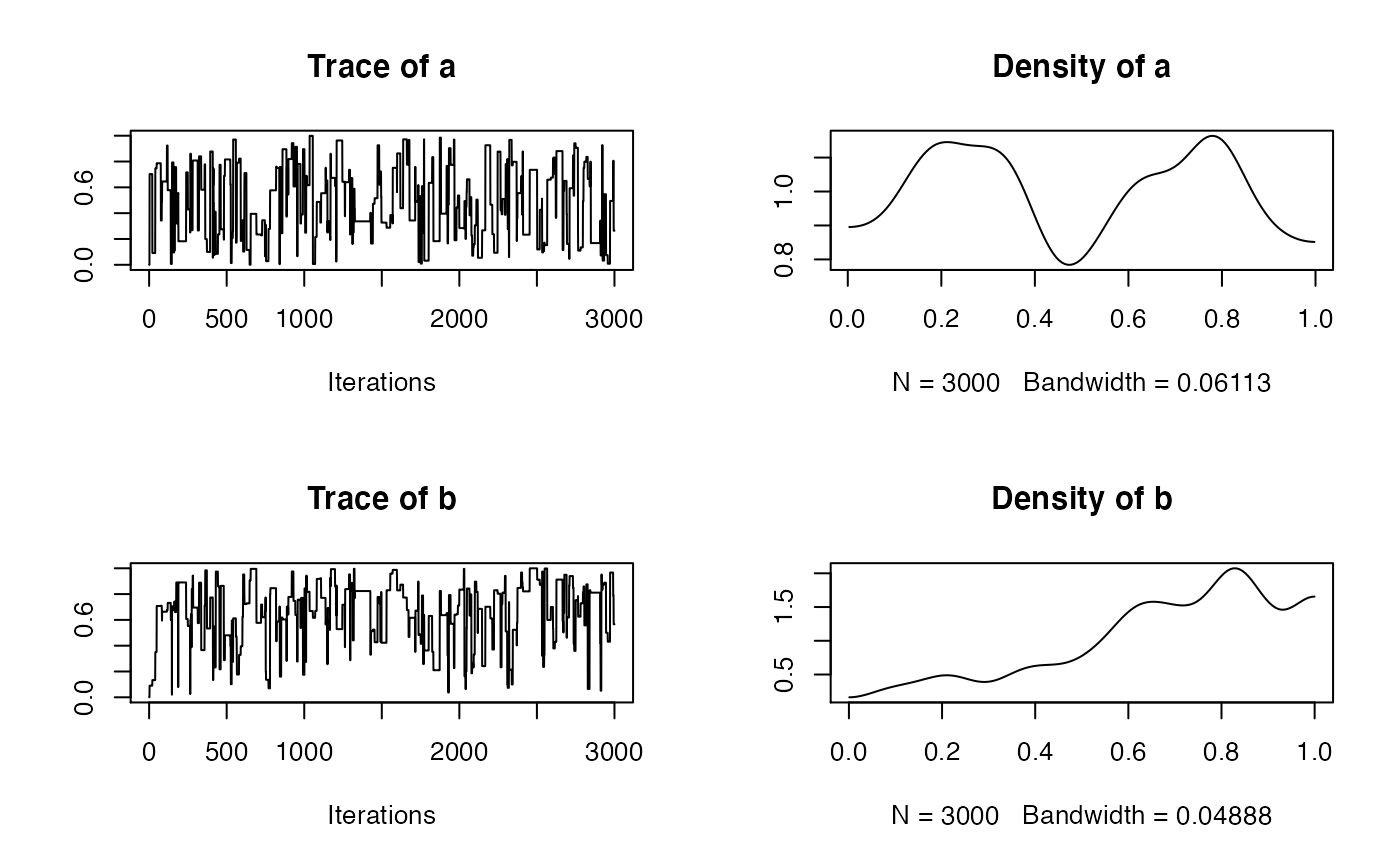
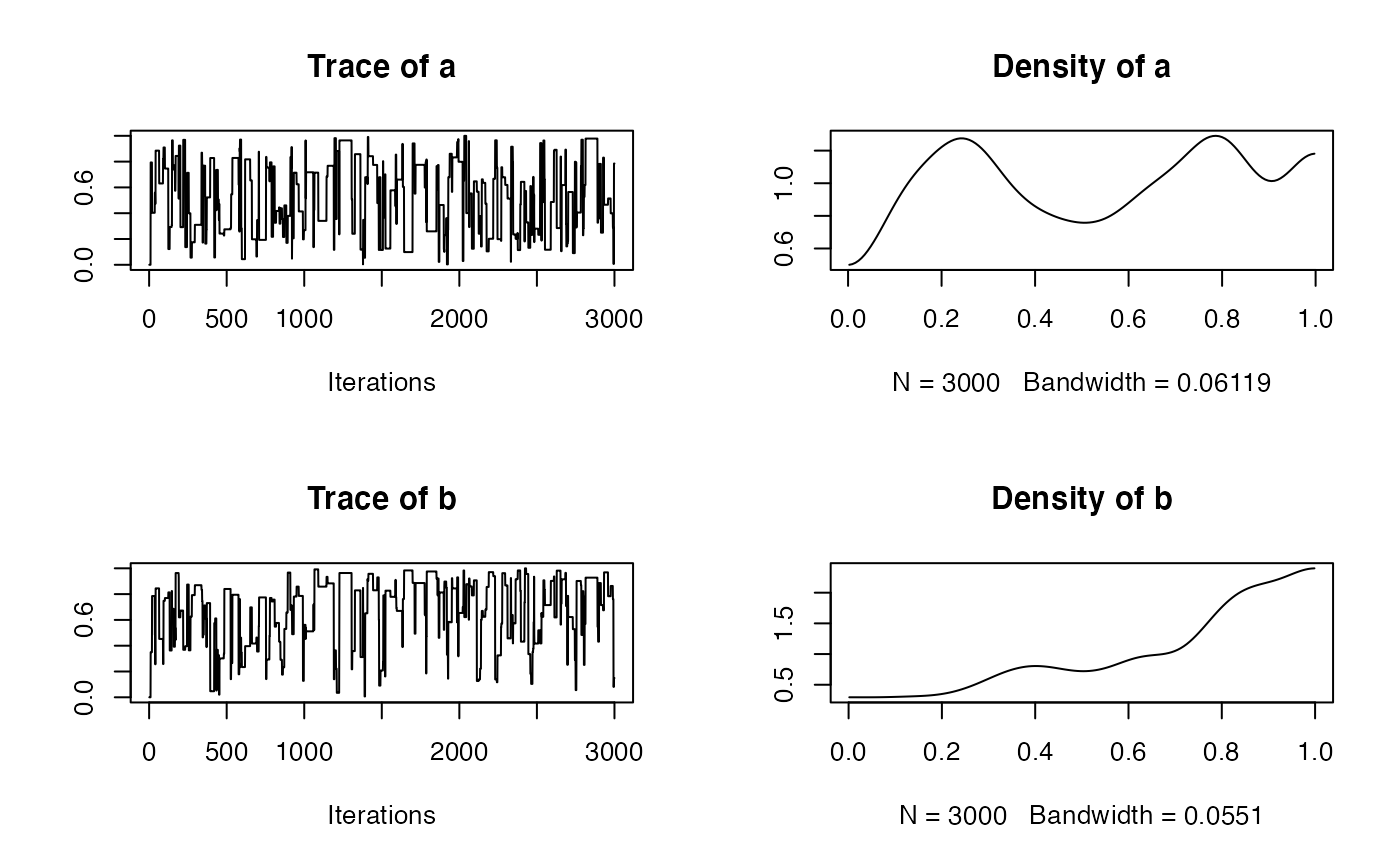
Built site for simpleMH: 0.1.0.9000@8452eec

diff --git a/index.html b/index.html
@@ -85,15 +85,17 @@
 <div id="installation" class="section level2">
 <h2 class="hasAnchor">
 <a href="#installation" class="anchor"></a>Installation</h2>
-<p>You can install the development version from GitHub:</p>
+<p>You can install this package from CRAN:</p>
 <div class="sourceCode" id="cb1"><pre class="downlit sourceCode r">
-<code class="sourceCode R"><span class="co"># install.packages("remotes")</span>
-<span class="fu">remotes</span><span class="fu">::</span><span class="fu"><a href="https://remotes.r-lib.org/reference/install_github.html">install_github</a></span><span class="op">(</span><span class="st">"Bisaloo/simpleMH"</span><span class="op">)</span></code></pre></div>
+<code class="sourceCode R"><span class="fu"><a href="https://rdrr.io/r/utils/install.packages.html">install.packages</a></span><span class="op">(</span><span class="st">"simpleMH"</span><span class="op">)</span></code></pre></div>
+<p>or from my <a href="https://bisaloo.r-universe.dev/">r-universe</a> (development version):</p>
+<div class="sourceCode" id="cb2"><pre class="downlit sourceCode r">
+<code class="sourceCode R"><span class="fu"><a href="https://rdrr.io/r/utils/install.packages.html">install.packages</a></span><span class="op">(</span><span class="st">"simpleMH"</span>, repos <span class="op">=</span> <span class="st">"https://bisaloo.r-universe.dev"</span><span class="op">)</span></code></pre></div>
 </div>
 <div id="example" class="section level2">
 <h2 class="hasAnchor">
 <a href="#example" class="anchor"></a>Example</h2>
-<div class="sourceCode" id="cb2"><pre class="downlit sourceCode r">
+<div class="sourceCode" id="cb3"><pre class="downlit sourceCode r">
 <code class="sourceCode R"><span class="kw"><a href="https://rdrr.io/r/base/library.html">library</a></span><span class="op">(</span><span class="va">simpleMH</span><span class="op">)</span>
 
 <span class="co">## a log-pdf to sample from</span>
@@ -110,11 +112,11 @@
   coda <span class="op">=</span> <span class="cn">TRUE</span> <span class="co"># to be able to have nice plots and diagnostics with the coda pkg</span>
 <span class="op">)</span></code></pre></div>
 <p>Here is the resulting sampling landscape of <code>p.log()</code>:</p>
-<div class="sourceCode" id="cb3"><pre class="downlit sourceCode r">
+<div class="sourceCode" id="cb4"><pre class="downlit sourceCode r">
 <code class="sourceCode R"><span class="fu"><a href="https://rdrr.io/r/graphics/plot.default.html">plot</a></span><span class="op">(</span><span class="fu"><a href="https://rdrr.io/r/base/as.data.frame.html">as.data.frame</a></span><span class="op">(</span><span class="va">res</span><span class="op">$</span><span class="va">samples</span><span class="op">)</span><span class="op">)</span></code></pre></div>
 <p><img src="reference/figures/README-sampling-landscape-1.png" width="100%"></p>
 <p>We can then use the <a href="https://cran.r-project.org/package=coda">coda package</a> to post-process the chain (burn-in, thinning, etc.), plot the trace and density, or compute convergence diagnostics:</p>
-<div class="sourceCode" id="cb4"><pre class="downlit sourceCode r">
+<div class="sourceCode" id="cb5"><pre class="downlit sourceCode r">
 <code class="sourceCode R"><span class="fu"><a href="https://rdrr.io/r/graphics/plot.default.html">plot</a></span><span class="op">(</span><span class="va">res</span><span class="op">$</span><span class="va">samples</span><span class="op">)</span></code></pre></div>
 <p><img src="reference/figures/README-coda-plots-1.png" width="100%"></p>
 </div>
@@ -148,6 +150,7 @@
 <li><a href="https://lifecycle.r-lib.org/articles/stages.html"><img src="https://img.shields.io/badge/lifecycle-maturing-blue.svg" alt="Lifecycle: maturing"></a></li>
 <li><a href="https://github.com/Bisaloo/simpleMH/actions"><img src="https://github.com/Bisaloo/simpleMH/workflows/R-CMD-check/badge.svg" alt="R-CMD-check"></a></li>
 <li><a href="https://codecov.io/gh/Bisaloo/simpleMH?branch=main"><img src="https://codecov.io/gh/Bisaloo/simpleMH/branch/main/graph/badge.svg" alt="Codecov test coverage"></a></li>
+<li><a href="https://CRAN.R-project.org/package=simpleMH"><img src="https://www.r-pkg.org/badges/version-ago/simpleMH" alt="CRAN status"></a></li>
 </ul>
 </div>
 </div>

diff --git a/articles/FAQ.html b/articles/FAQ.html
@@ -122,14 +122,14 @@
 <span class="co">#&gt;    plus standard error of the mean:</span>
 <span class="co">#&gt; </span>
 <span class="co">#&gt;     Mean     SD Naive SE Time-series SE</span>
-<span class="co">#&gt; a 0.4962 0.2860 0.005221        0.02419</span>
-<span class="co">#&gt; b 0.6632 0.2388 0.004359        0.02093</span>
+<span class="co">#&gt; a 0.5246 0.2863 0.005227        0.02479</span>
+<span class="co">#&gt; b 0.6809 0.2578 0.004707        0.02607</span>
 <span class="co">#&gt; </span>
 <span class="co">#&gt; 2. Quantiles for each variable:</span>
 <span class="co">#&gt; </span>
 <span class="co">#&gt;      2.5%    25%    50%    75%  97.5%</span>
-<span class="co">#&gt; a 0.02791 0.2355 0.4949 0.7516 0.9699</span>
-<span class="co">#&gt; b 0.10060 0.5283 0.7022 0.8348 0.9955</span></code></pre></div>
+<span class="co">#&gt; a 0.06398 0.2593 0.5266 0.7751 0.9786</span>
+<span class="co">#&gt; b 0.09062 0.4892 0.7744 0.8859 0.9838</span></code></pre></div>
 <div class="sourceCode" id="cb3"><pre class="downlit sourceCode r">
 <code class="sourceCode R"><span class="fu"><a href="https://rdrr.io/r/graphics/plot.default.html">plot</a></span><span class="op">(</span><span class="va">res</span><span class="op">$</span><span class="va">samples</span><span class="op">)</span></code></pre></div>
 <p><img src="FAQ_files/figure-html/unnamed-chunk-3-1.png" width="700"></p>
